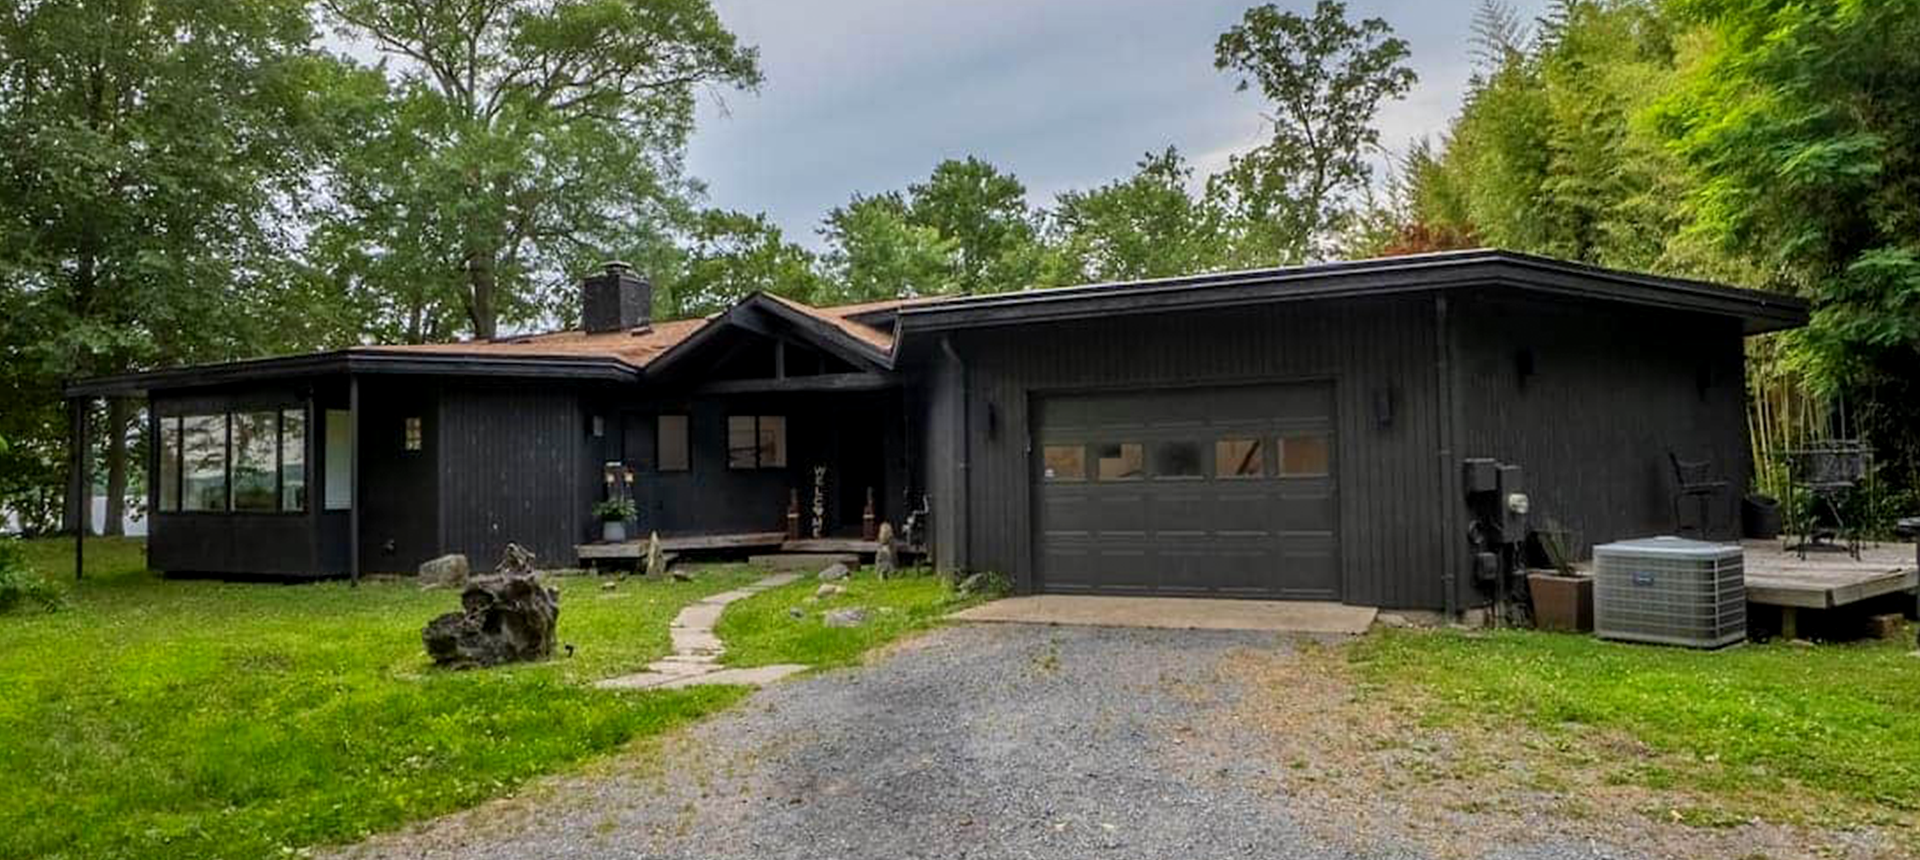
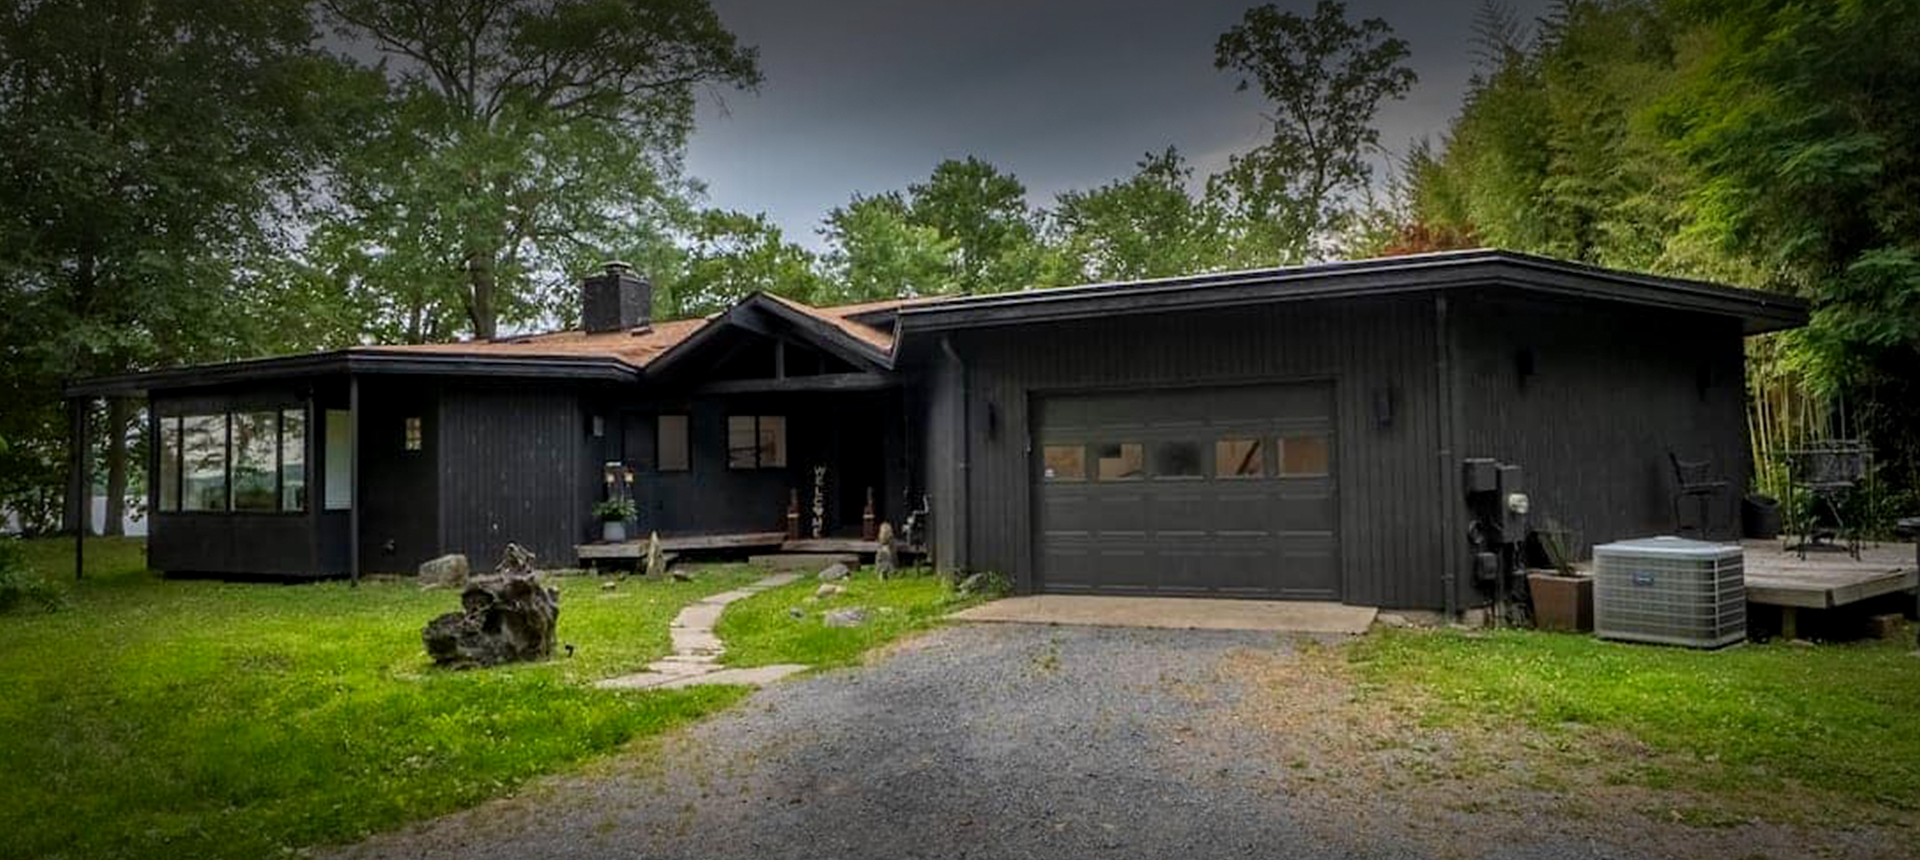
Add minor adjustments to the setting photo

diff --git a/styles.css b/styles.css
@@ -12,6 +12,10 @@
   --accent-grad-start:#ff5a52;
   --accent-grad-end:#ff7b6c;
   --muted:#a6aab0;
+
+  /* hero overlay controls (adjust for more/less prominence) */
+  --hero-overlay-opacity: 0.45; /* 0.25 subtle / 0.45 moderate / 0.6 strong */
+  --hero-desaturate: 0.12;      /* 0 = unchanged, 1 = grayscale */
 }
 
 /* reset / layout */
@@ -76,43 +80,56 @@ body{
 }
 #scenario, #attendees, #detective { scroll-margin-top: calc(var(--nav-h) + 12px); }
 
-/* HERO/SETTING IMAGE (matches scenario box width) */
+/* HERO/SETTING IMAGE (matches scenario box width) with overlay */
 .hero-wrapper{
   display:flex;
   justify-content:center;
   margin: 16px 0 8px;
+  position:relative; /* required for overlay pseudo-element */
+  max-width: calc(var(--maxw) - 40px);
+  width:100%;
+  pointer-events: none; /* prevents accidental clicks on wrapper; image remains non-interactive */
+  border-radius:10px;
+}
+.hero-wrapper::before{
+  content: "";
+  position: absolute;
+  inset: 0;
+  border-radius: 10px;
+  background: rgba(0,0,0,var(--hero-overlay-opacity));
+  pointer-events: none;
+  transition: background .22s ease;
 }
 .setting-image{
   width:100%;
-  max-width: calc(var(--maxw) - 40px); /* matches scenario card max width */
+  max-width: inherit;
   display:block;
   border-radius:10px;
   box-shadow: 0 18px 40px rgba(0,0,0,0.55);
   object-fit:cover;
+  filter: saturate(calc(1 - var(--hero-desaturate))) contrast(0.98);
+  transition: filter .22s ease, transform .22s ease;
+  position:relative;
 }
 
+/* ---- Subtle, professional scenario card ---- */
 .scenario-card{
-  /* softer, more neutral surface */
   background: rgba(255,255,255,0.03);
   border: 1px solid rgba(255,255,255,0.035);
-  border-left: 4px solid rgba(255,90,82,0.08);   /* slim accent stripe */
+  border-left: 4px solid rgba(255,90,82,0.08);
   padding:16px;
   border-radius:10px;
-  box-shadow: 0 6px 20px rgba(0,0,0,0.40);       /* gentler shadow */
+  box-shadow: 0 6px 20px rgba(0,0,0,0.40);
   transition: transform .22s cubic-bezier(.2,.9,.3,1), box-shadow .22s, background .22s;
   max-width: calc(var(--maxw) - 40px);
   margin: 0 auto 8px;
-  backdrop-filter: blur(4px);                    /* soft glass feel */
+  backdrop-filter: blur(4px);
 }
-
-/* Slight lift when focused or hovered, still restrained */
 .scenario-card:hover,
 .scenario-card:focus-within{
   transform: translateY(-4px);
   box-shadow: 0 12px 36px rgba(0,0,0,0.45);
 }
-
-/* lead paragraph: cleaner spacing and readable size */
 .scenario-lead{
   margin:0 0 8px;
   font-size:1.02rem;
@@ -120,8 +137,6 @@ body{
   line-height:1.55;
   letter-spacing: -0.01em;
 }
-
-/* hidden/expanded content keeps smooth reveal */
 .scenario-more{
   max-height:0;
   overflow:hidden;
@@ -133,17 +148,15 @@ body{
   line-height:1.6;
 }
 .scenario-card.expanded .scenario-more{
-  max-height: 600px; /* enough room for copy */
+  max-height: 600px;
   opacity:1;
   transform: none;
 }
-
-/* subtle pill button — quiet, readable, and accessible */
 .scenario-toggle{
   display:inline-block;
   margin-top:10px;
   background: transparent;
-  color: rgba(255,90,82,0.97); /* accent color for action */
+  color: rgba(255,90,82,0.97);
   border: 1px solid rgba(255,90,82,0.12);
   padding:8px 12px;
   font-weight:700;
@@ -158,8 +171,6 @@ body{
   transform: translateY(-2px);
   outline: none;
 }
-
-/* accessible focus ring for keyboard users */
 .scenario-toggle:focus{
   box-shadow: 0 0 0 4px rgba(255,90,82,0.075), 0 2px 8px rgba(0,0,0,0.12);
 }
@@ -206,42 +217,31 @@ body{
 }
 
 /* ===== Thumb: reliable square container (prevents uneven sizing on mobile) ===== */
-
-/* container: responsive square using padding-top trick (always 1:1) */
 .thumb{
   background:transparent;
   border:0;
   padding:0;
   cursor:pointer;
   display:block;
-
-  /* fill the grid column fully, but cap the visual size */
   width:100%;
   max-width:300px;
-
-  /* create a perfect square box regardless of image intrinsic size */
   position:relative;
   padding-top:100%;       /* square aspect ratio */
   border-radius:8px;
   overflow:hidden;
-
   transition: transform .18s ease, box-shadow .18s ease;
   will-change: transform;
 }
-
-/* the img is absolutely positioned to fill that square */
 .thumb img{
   position:absolute;
-  inset:0;                /* top:0; right:0; bottom:0; left:0 */
+  inset:0;
   width:100%;
   height:100%;
   display:block;
-  object-fit:cover;       /* crop consistently, centered */
-  border-radius:0;        /* container handles rounding */
+  object-fit:cover;
+  border-radius:0;
   transition: transform .18s ease, filter .18s ease;
 }
-
-/* subtle hover enlarge; apply to the square container */
 .thumb:hover, .thumb:focus {
   transform: scale(1.06);
   box-shadow: 0 14px 40px rgba(0,0,0,0.55);
@@ -280,10 +280,10 @@ body{
   width: auto;
   margin: 20px;
   border-radius:10px;
-  overflow:auto; /* allow panel to scroll on smaller screens */
+  overflow:auto;
   -webkit-overflow-scrolling: touch;
   box-shadow: 0 30px 80px rgba(0,0,0,0.7);
-  max-height: 95vh; /* makes panel fit the viewport */
+  max-height: 95vh;
 }
 
 /* inner layout: image (left) + text (right) */
@@ -297,7 +297,7 @@ body{
 
 /* image wrapper */
 .card-image-wrap{
-  flex: 0 0 640px; /* fixed width for full image */
+  flex: 0 0 640px;
   width:640px;
   height:750px;
   border-radius:8px;
@@ -314,7 +314,7 @@ body{
   display:block;
 }
 
-/* text column to the right (now with readable panel: semi-opaque + blur) */
+/* text column to the right (readable panel: semi-opaque + blur) */
 .card-text{
   flex:1 1 300px;
   min-width:260px;
@@ -322,30 +322,23 @@ body{
   display:flex;
   flex-direction:column;
   gap:14px;
-
-  /* readable panel */
   background: rgba(0,0,0,0.46);
   padding: 18px;
   border-radius: 10px;
   box-shadow: inset 0 2px 10px rgba(0,0,0,0.35), 0 10px 30px rgba(0,0,0,0.35);
-
   -webkit-backdrop-filter: blur(8px);
   backdrop-filter: blur(8px);
 }
-
-/* heading inside the card text */
 .card-text h3{
   margin:0;
   font-size:1.35rem;
   color:#fff;
 }
-
-/* body / bio copy — larger and higher contrast for readability */
 .card-bio{
   color:#e6e7e9;
   line-height:1.6;
   font-size:1.05rem;
-  overflow:auto; /* allow the bio area to scroll if long */
+  overflow:auto;
   -webkit-overflow-scrolling: touch;
 }
 
@@ -368,28 +361,25 @@ body{
   .thumb-grid{ grid-template-columns: repeat(4, 1fr); gap:12px; }
   .card-inner{ flex-direction:column; align-items:center; }
 
-  /* make the image contained so it won't crop */
   .card-image-wrap{
     width:90vw;
     height:auto;
-    max-height:60vh; /* keeps it from dominating the viewport */
+    max-height:60vh;
   }
   .card-image-wrap img{
     width:100%;
     height:100%;
-    object-fit:contain; /* ensure full image visible, no cropping */
+    object-fit:contain;
   }
 
-  /* ensure the text area can scroll inside the panel */
   .card-text{
     width:90vw;
     max-width:90vw;
-    max-height: calc(95vh - 60vh - 80px); /* remaining vertical space for text */
+    max-height: calc(95vh - 60vh - 80px);
     overflow:auto;
     -webkit-overflow-scrolling: touch;
   }
 
-  /* keep the close button always reachable on mobile */
   .card-close{
     position:fixed;
     right:12px;
@@ -405,16 +395,18 @@ body{
 @media (max-width:520px){
   .thumb-grid{ grid-template-columns: repeat(2, 1fr); gap:10px; }
 
-  /* let the thumb fully fill its grid cell (no fixed max causing unevenness) */
+  /* let the thumb fully fill its grid cell */
   .thumb{
     max-width:100%;
-    padding-top:100%; /* still a square */
+    padding-top:100%;
   }
-
-  /* image keeps covering the square without stretching */
   .thumb img{
     object-fit:cover;
   }
+
+  /* slightly stronger hero overlay on small screens */
+  :root { --hero-overlay-opacity: 0.55; }
+  .setting-image{ filter: saturate(calc(1 - var(--hero-desaturate))) contrast(0.95); }
 }
 
 /* footer */
